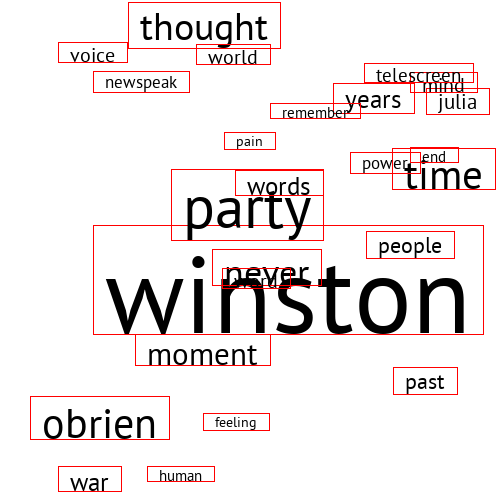
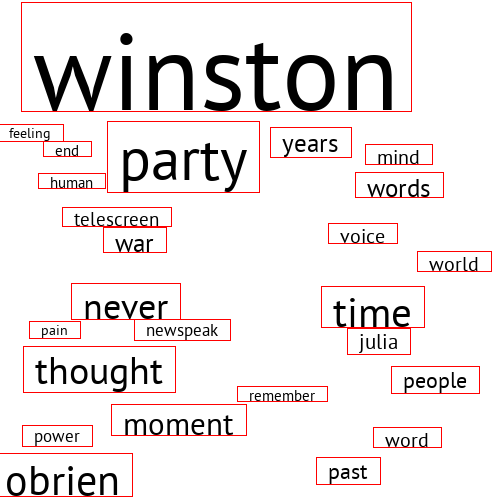
Added AABB Tree collision detection for word boxes

diff --git a/main.py b/main.py
@@ -1,19 +1,18 @@
 import sys
-import math
 import random
 from PIL import Image, ImageFont, ImageDraw
 from wordcloud.stopwords import set_stopwords
 from wordcloud.vocabulary import create_vocab
+from aabbtree import AABB, AABBTree
 
 # WORD CLOUD INPUT PARAMS
 NUM_WORDS = 25
+CONST_SCALE = 12
 FONT_SIZE_MULTIPLIER = 7
 IMAGE_WIDTH, IMAGE_HEIGHT = 500, 500
 FONT_COLOUR = (0, 0, 0) # black
 STOPWORDS_DATA_PATH = './lang/stopwords.txt'
 stopwords = set_stopwords(STOPWORDS_DATA_PATH)
-
-WX_FONT = "./fonts/PT_Sans-Regular.ttf"
 
 # NORMALIZE INPUT DATA FROM FILE AND BUILD WORD DICT
 INPUT_DATA_PATH = './input/data.txt'
@@ -38,6 +37,7 @@ for word in vocab_sizes:
     vocab_sizes[word] = int(font_size)
 
 # DRAW WORDS
+tree = AABBTree()
 while len(vocab) > 0:
     # info about the word
     word_tuple = vocab.popitem()
@@ -50,16 +50,25 @@ while len(vocab) > 0:
     while not valid:
         # Places each word on the canvas, draws a rectangle around it
         coords = (random.randint(0,500), random.randint(0,500))
-        CONST_SCALE = 12
-        word_width = font.getsize(word)
-        word_box_start = (coords[0] - CONST_SCALE, coords[1])
-        word_box_end = (coords[0] + word_width[0] + CONST_SCALE , coords[1] + word_width[1]) 
-        if word_box_start[0] < IMAGE_WIDTH and word_box_end[0] < IMAGE_WIDTH:
-            if word_box_start[1] < IMAGE_HEIGHT and word_box_end[1] < IMAGE_HEIGHT:
-                valid = True
-    draw.rectangle((word_box_start, word_box_end), outline=(255,0,0), width=1)
-    draw.text(coords, word, FONT_COLOUR, font=font)
+        word_box_size = font.getsize(word)
 
+        # Checks whether the box surrounding thwe word is within the bounds of the canvas
+        word_box = (coords[0] - CONST_SCALE, coords[1]), (coords[0] + word_box_size[0] + CONST_SCALE, coords[1] + word_box_size[1])
+        if word_box[0][0] < IMAGE_WIDTH and word_box[1][0] < IMAGE_WIDTH:
+            if word_box[0][1] < IMAGE_HEIGHT and word_box[1][1] < IMAGE_HEIGHT:
+                valid = True
+
+        # AABB (Axis Aligned Bounding Box) Tree to determine whether word box collides with a word that's already been placed.
+        limits = [(word_box[0][0], word_box[1][0]), (word_box[0][1], word_box[1][1])]
+        aabb = AABB(limits)
+        if tree.does_overlap(aabb):
+            valid = False
+
+    tree.add(aabb, word)
+
+    draw.rectangle(word_box, outline=(255,0,0), width=1)
+    draw.text(coords, word, FONT_COLOUR, font=font)
+    #sys.exit()
 
 img.save(IMG_FILEPATH)
 
